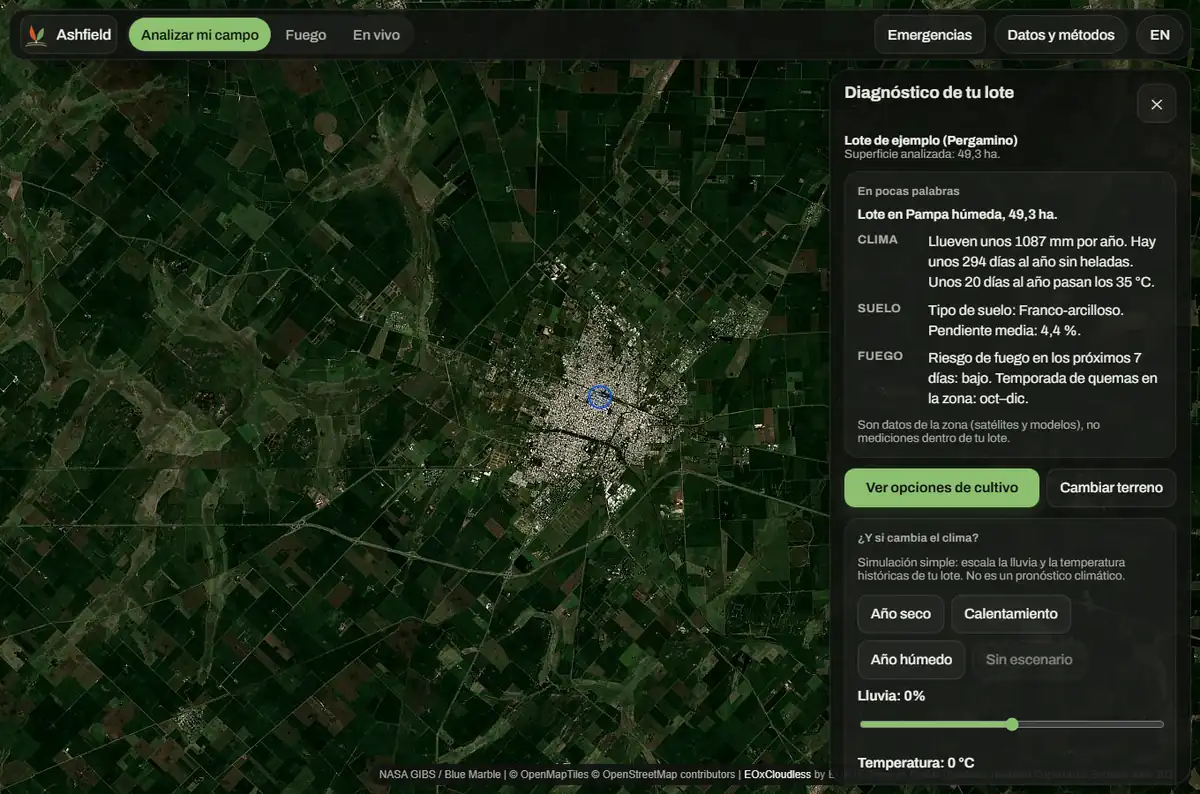
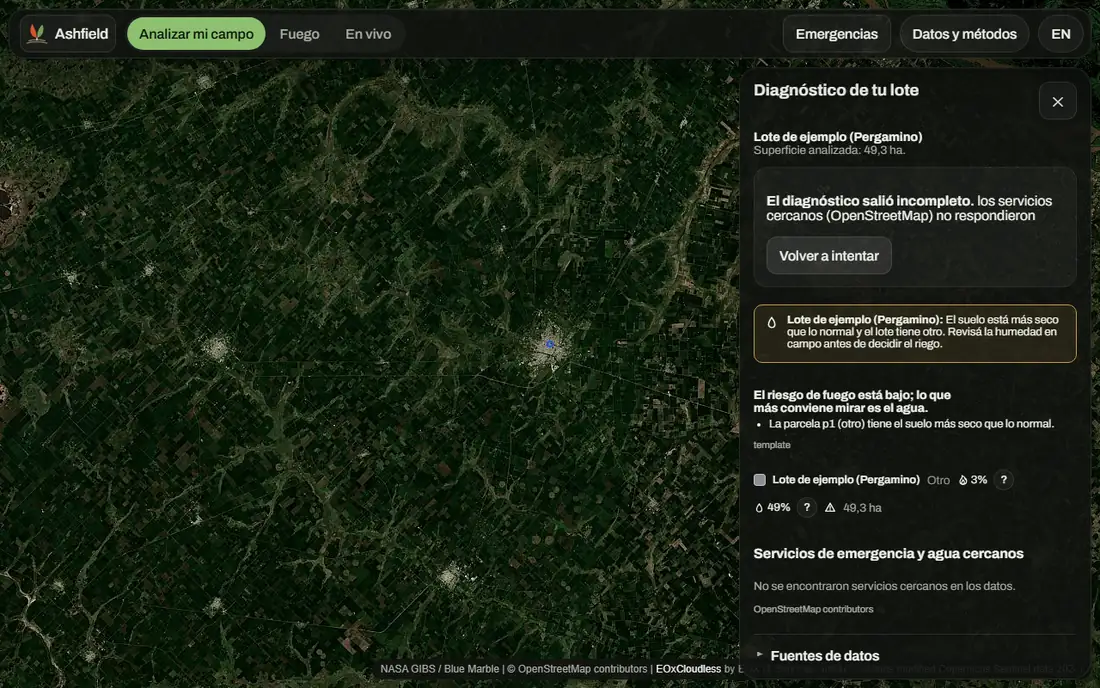
fix(landing): polish pass after impeccable round-2 critique
- locale-matched app screenshots (EN+ES, current app UI, real data)
- scoreline + #brief deep link on the collapsed requirements disclosure
- fix aria-labelledby ids on req-group headings
- card tables up to 991px (tablet dead zone), 2-col blocks grid
- hero fetchpriority, eager first block image, localized [PENDING] tag
- report: docs/audit/impeccable-round2.md (fire-view issues deferred)

diff --git a/web/src/landing/content.ts b/web/src/landing/content.ts
@@ -17,7 +17,7 @@ export interface ReqRow {
   limit?: string;
 }
 
-export interface ReqGroup { title: string; rows: ReqRow[]; }
+export interface ReqGroup { title: string; short: string; rows: ReqRow[]; }
 
 export interface MetricRow { label: string; value: string; note?: string; }
 export interface DataRow { name: string; what: string; resolution: string; where: string; }
@@ -51,7 +51,8 @@ export interface Landing {
     shot: { src: string; alt: string; width: number; height: number; caption: string };
   };
   blocks: Block[];
-  details: { summary: string; caption: string };
+  details: { summary: string; caption: string; scoreSep: string; statusSep: string };
+  pendTag: string;
   problem: { heading: string; paragraphs: string[] };
   brief: {
     heading: string;
@@ -121,9 +122,9 @@ const en: Landing = {
     tagline: "NASA Space Apps Challenge 2026 · Field Shift (also covers Harmonization of MODIS and VIIRS Hot Spots)",
     markAlt: "Ashfield mark",
     shot: {
-      src: "/landing/app_diagnosis.webp",
+      src: "/landing/app_diagnosis_en.webp",
       alt: "The Ashfield app diagnosing a 50 ha demo plot near Pergamino over satellite imagery: climate, soil and 7-day fire-risk results in plain language.",
-      width: 1200, height: 794,
+      width: 1100, height: 688,
       caption: "The app: a field diagnosis on the Pergamino demo plot, satellite base map included.",
     },
   },
@@ -132,9 +133,9 @@ const en: Landing = {
       heading: "What you see",
       text: "Fires detected right now by NASA's MODIS and VIIRS satellites, 25 years of monthly history on a 3D globe, and an estimate of fire risk for the next 7 days in your area.",
       figure: {
-        src: "/landing/app_fire_risk.webp",
+        src: "/landing/app_fire_risk_en.webp",
         alt: "The Ashfield fire view over South America: harmonized detection hexagons on the map, a 7-day fire-risk card reading 'low' and a fire calendar panel.",
-        width: 1200, height: 750,
+        width: 1280, height: 800,
         caption: "The app, fire view: harmonized detections and the 7-day risk card.",
       },
     },
@@ -152,7 +153,9 @@ const en: Landing = {
   details: {
     summary: "How it meets the challenge brief",
     caption: "Every requirement of both challenges, the method, the validation numbers and the honest limits — nothing removed.",
+    scoreSep: " · ", statusSep: " · ",
   },
+  pendTag: "[PENDING]",
   problem: {
     heading: "The problem",
     paragraphs: [
@@ -169,6 +172,7 @@ const en: Landing = {
     groups: [
       {
         title: "Field Shift: Adapting Farms with NASA Data",
+        short: "Field Shift",
         rows: [
           { id: "F1", status: "partial",
             requirement: "NASA Earth data: temperature, heat stress, precipitation, soil moisture, evaporation, frost, extremes, vegetation stress, long-term water availability",
@@ -227,6 +231,7 @@ const en: Landing = {
       },
       {
         title: "Harmonization of MODIS and VIIRS Hot Spots",
+        short: "MODIS & VIIRS Hot Spots",
         rows: [
           { id: "H1", status: "done",
             requirement: "Harmonize MODIS and VIIRS into one comparable historical series",
@@ -376,7 +381,7 @@ const es: Landing = {
     shot: {
       src: "/landing/app_diagnosis.webp",
       alt: "La app Ashfield diagnosticando un lote demo de 50 ha cerca de Pergamino sobre imagen satelital: clima, suelo y riesgo de fuego a 7 días en lenguaje simple.",
-      width: 1200, height: 794,
+      width: 1100, height: 688,
       caption: "La app: diagnóstico de un lote demo en Pergamino, con mapa satelital incluido.",
     },
   },
@@ -387,7 +392,7 @@ const es: Landing = {
       figure: {
         src: "/landing/app_fire_risk.webp",
         alt: "La vista de fuego de Ashfield sobre Sudamérica: hexágonos de detecciones armonizadas en el mapa, la tarjeta de riesgo a 7 días marcando «bajo» y el calendario de fuego.",
-        width: 1200, height: 750,
+        width: 1280, height: 844,
         caption: "La app, vista fuego: detecciones armonizadas y la tarjeta de riesgo a 7 días.",
       },
     },
@@ -405,7 +410,9 @@ const es: Landing = {
   details: {
     summary: "Cómo cumple el desafío",
     caption: "Cada requisito de los dos desafíos, el método, los números de validación y los límites honestos — nada se quitó.",
+    scoreSep: " · ", statusSep: " · ",
   },
+  pendTag: "[PENDIENTE]",
   problem: {
     heading: "El problema",
     paragraphs: [
@@ -422,6 +429,7 @@ const es: Landing = {
     groups: [
       {
         title: "Field Shift: Adapting Farms with NASA Data",
+        short: "Field Shift",
         rows: [
           { id: "F1", status: "partial",
             requirement: "Datos NASA: temperatura, estrés por calor, precipitación, humedad del suelo, evaporación, heladas, extremos, estrés de la vegetación, agua a largo plazo",
@@ -480,6 +488,7 @@ const es: Landing = {
       },
       {
         title: "Armonización de focos de calor MODIS y VIIRS",
+        short: "Focos MODIS y VIIRS",
         rows: [
           { id: "H1", status: "done",
             requirement: "Armonizar MODIS y VIIRS en una serie histórica comparable",

diff --git a/web/src/landing/main.ts b/web/src/landing/main.ts
@@ -29,7 +29,7 @@ const reqRow = (r: Landing["brief"]["groups"][number]["rows"][number]) => `
 
 const reqGroup = (g: Landing["brief"]["groups"][number]) => `
   <section class="req-group" aria-labelledby="req-${g.title.slice(0, 1)}">
-    <h3>${g.title}</h3>
+    <h3 id="req-${g.title.slice(0, 1)}">${g.title}</h3>
     <div class="table-wrap" role="region" tabindex="0" aria-label="${g.title}">
       <table class="req-table">
         <thead><tr>
@@ -92,7 +92,7 @@ const pendingList = () => `
 
 const linksList = () => `
   <ul class="links">${c.team.links.map((l) => l.pending
-    ? `<li><span class="pending-link">${l.label}</span> <span class="pend-tag">[PENDIENTE]</span></li>`
+    ? `<li><span class="pending-link">${l.label}</span> <span class="pend-tag">${c.pendTag}</span></li>`
     : `<li><a href="${l.href}">${l.label}</a></li>`).join("")}
   </ul>`;
 
@@ -105,7 +105,7 @@ const block = (b: Landing["blocks"][number]) => `
     <p>${b.text}</p>
     ${b.figure ? `<figure class="chart"><img src="${b.figure.src}"
         alt="${b.figure.alt}" width="${b.figure.width}"
-        height="${b.figure.height}" loading="lazy" decoding="async" />
+        height="${b.figure.height}" decoding="async" />
       <figcaption>${b.figure.caption}</figcaption></figure>` : ""}
     ${b.stat ? `<p class="block-stat"><strong>${b.stat.value}</strong>
       <span>${b.stat.note}</span></p>` : ""}
@@ -138,7 +138,7 @@ document.getElementById("root")!.innerHTML = `
       <figure class="hero-shot">
         <img src="${c.hero.shot.src}" alt="${c.hero.shot.alt}"
              width="${c.hero.shot.width}" height="${c.hero.shot.height}"
-             decoding="async" />
+             fetchpriority="high" decoding="async" />
         <figcaption>${c.hero.shot.caption}</figcaption>
       </figure>
     </section>
@@ -147,9 +147,16 @@ document.getElementById("root")!.innerHTML = `
       ${c.blocks.map(block).join("")}
     </section>
 
-    <details class="brief-details">
+    <details class="brief-details" id="brief">
       <summary>
         <span class="summary-title">${c.details.summary}</span>
+        <span class="summary-score">${c.brief.groups.map((g) =>
+          `${g.short}: ${(["done", "partial", "not-included"] as Status[])
+            .map((s) => [s, g.rows.filter((r) => r.status === s).length] as const)
+            .filter(([, n]) => n > 0)
+            .map(([s, n]) => `${n} ${c.brief.statusLabel[s].toLowerCase()}`)
+            .join(c.details.scoreSep)}`
+        ).join(c.details.statusSep)}</span>
         <span class="summary-caption">${c.details.caption}</span>
       </summary>
       <div class="details-body">
@@ -221,3 +228,8 @@ document.getElementById("root")!.innerHTML = `
     <p class="foot-note">${c.footer.note}</p>
   </footer>
 `;
+
+// Deep link: /#brief and /es/#brief open the requirement/proof disclosure.
+if (location.hash === "#brief") {
+  document.getElementById("brief")?.setAttribute("open", "");
+}

diff --git a/web/src/landing/landing.test.ts b/web/src/landing/landing.test.ts
@@ -69,6 +69,48 @@ describe("landing page", () => {
     expect(det!.hasAttribute("open")).toBe(false);
   });
 
+  it("the collapsed summary exposes a status scoreline before opening", async () => {
+    await render("en");
+    const score = document.querySelector("details.brief-details .summary-score");
+    expect(score?.textContent).toMatch(/Field Shift: \d+ done · \d+ partial/);
+    await render("es");
+    const scoreEs = document.querySelector("details.brief-details .summary-score");
+    expect(scoreEs?.textContent).toMatch(/hecho/i);
+  });
+
+  it("the brief details is deep-linkable via #brief", async () => {
+    await render("en");
+    const det = document.querySelector("details.brief-details");
+    expect(det?.id).toBe("brief");
+    location.hash = "#brief";
+    await render("en");
+    expect(document.querySelector("details.brief-details")?.hasAttribute("open")).toBe(true);
+    location.hash = "";
+  });
+
+  it("requirement groups label their sections with matching ids", async () => {
+    await render("en");
+    for (const sec of document.querySelectorAll(".req-group")) {
+      const id = sec.getAttribute("aria-labelledby");
+      expect(sec.querySelector(`#${id}`)).toBeTruthy();
+    }
+  });
+
+  it("hero image asks for high fetch priority", async () => {
+    await render("en");
+    const img = document.querySelector(".hero-shot img");
+    expect(img?.getAttribute("fetchpriority")).toBe("high");
+  });
+
+  it("pending markers are localized, never hardcoded Spanish", async () => {
+    await render("en");
+    const en = [...document.querySelectorAll(".pend-tag")].map((t) => t.textContent);
+    expect(en.every((t) => t === "[PENDING]")).toBe(true);
+    await render("es");
+    const es = [...document.querySelectorAll(".pend-tag")].map((t) => t.textContent);
+    expect(es.every((t) => t === "[PENDIENTE]")).toBe(true);
+  });
+
   it("hero offers exactly one primary and one example action", async () => {
     await render("es");
     const cta = document.querySelector(".hero-cta");

diff --git a/web/src/landing/landing.css b/web/src/landing/landing.css
@@ -289,14 +289,13 @@ tbody th { font-weight: 500; max-width: 22rem; }
 /* three short blocks below the hero */
 .blocks {
   display: grid;
-  grid-template-columns: repeat(3, 1fr);
+  grid-template-columns: repeat(2, 1fr);
   gap: 2.5rem;
   align-items: start;
 }
 .block h3 { margin-top: 0; }
 .block p { font-size: 0.98rem; }
 .block .chart { margin: 1rem 0 0; }
-.block figure { grid-column: 1 / -1; }
 .block-stat { display: flex; flex-direction: column; gap: 0.25rem; margin-top: 1rem; }
 .block-stat strong {
   font-family: var(--display);
@@ -329,6 +328,11 @@ tbody th { font-weight: 500; max-width: 22rem; }
   font-weight: 800; font-size: clamp(1.5rem, 3.5vw, 2.2rem);
   letter-spacing: -0.02em; line-height: 1.1;
 }
+.summary-score {
+  color: var(--accent);
+  font-size: 0.9rem; font-weight: 700;
+  font-variant-numeric: tabular-nums;
+}
 .summary-caption { color: var(--muted); font-size: 0.95rem; max-width: 60ch; }
 .details-body > section {
   padding-block: 3rem;
@@ -357,9 +361,12 @@ tbody th { font-weight: 500; max-width: 22rem; }
   .blocks { grid-template-columns: 1fr; gap: 2rem; }
   .details-body > section { padding-block: 2rem; }
   th, td { padding: 0.75rem 0.8rem; }
+}
 
-  /* requirement rows become stacked cards: title, status pill,
-   * honest limit, then what Ashfield does — no horizontal scroll */
+/* requirement rows become stacked cards below the table's 62rem
+ * minimum width: title, status pill, honest limit, then what
+ * Ashfield does — no horizontal scroll at tablet or phone width */
+@media (max-width: 991px) {
   .table-wrap { overflow-x: visible; border: 0; border-radius: 0;
     background: transparent; }
   .req-table { min-width: 0; }

diff --git a/docs/audit/impeccable-round2.md b/docs/audit/impeccable-round2.md
@@ -1,0 +1,122 @@
+# Impeccable critique — round 2 (landing + fire views)
+
+Date: 2026 (post landing-v2). Surfaces reviewed:
+
+- **A — Landing** (`/` and `/es/`, `web/src/landing/**`) — design review, isolated sub-agent.
+- **B — Fire views** (`/app/` Fuego history + En vivo, 390 px and 1280 px, real browser, `VITE_DATA_BASE_URL=https://pub-f3e35e60ad774d339f43297a54691092.r2.dev/v1/`, backend `http://localhost:8000`) — design + detector evidence, isolated sub-agent.
+
+Two isolated sub-agents were used (not degraded). Assessment A completed before detector findings entered the synthesis.
+
+## Evidence
+
+Screenshots (git-ignored) under `web/screenshots/critique/`:
+
+| Surface | 1280 px | 390 px |
+|---|---|---|
+| Landing EN | `landing-en-1280-first.png`, `landing-en-1280-full.png` | `landing-en-390-first.png`, `landing-en-390-full.png` |
+| Landing ES | `landing-es-1280-first.png`, `landing-es-1280-full.png` | `landing-es-390-first.png`, `landing-es-390-full.png` |
+| App — Fuego history | `app-fire-1280.png`, `app-fire-panel-1280.png` | `app-fire-390.png`, `app-fire-panel-390.png` |
+| App — En vivo | `app-live-1280.png` | `app-live-390.png` |
+| App — welcome | `app-welcome-1280.png` | `app-welcome-390.png` |
+| App — EN UI (for landing assets) | `en-fire.png`, `en-diagnosis.png` | — |
+| Landing post-fix (this branch) | `final-en-1280-first.png`, `final-en-1280-full.png`, `final-en-1280-brief-open.png`, `final-en-800-full.png`, `final-en-800-blocks.png`, `final-en-800-reqcards.png`, `final-es-1280-first.png`, `final-es-1280-full.png`, `final-es-1280-brief-es.png`, `final-{en,es}-390-{first,full}.png`, `final-es-800-full.png` | — |
+
+Detector (`impeccable detect --json`):
+
+- `web/src/landing/**`, `web/index.html`, `web/es/index.html` → `[]` (clean, before and after fixes).
+- `web/src/styles/app.css` → 2 findings (see B-6 below).
+
+---
+
+## A — Landing
+
+**Heuristic score: 35/40 (87.5%)** — strong. Real product imagery, honest status labels, editorial ember/paper palette, no generic SaaS treatment.
+
+### What is working
+
+- One-sentence promise hero + two CTAs; the jury sees product, not boilerplate.
+- `Done / Partial / Not included` status pills with honest `limit` column — rare and credible.
+- Named NASA data only; `R² 0.979` holdout figure; Orin field note disclosed.
+- Bilingual content is structurally mirrored in typed `content.ts`.
+- No horizontal scroll at 390 px; dark mode and reduced-motion respected.
+
+### Issues (P1 first) — all fixed in this branch
+
+| # | Sev | Finding | Evidence | Fix |
+|---|---|---|---|---|
+| A1 | P1 | **English page showed a Spanish-UI app screenshot.** Both locales pointed to `/landing/app_diagnosis.webp` and `/landing/app_fire_risk.webp` (Spanish UI) — undermines EN credibility for the jury. The ES assets also showed the pre-parcels app UI (stale after other terminals merged app work). | `web/src/landing/content.ts` (hero `shot.src`, block figure `src`) | Recaptured all four assets in a real browser against live backend/R2 on the current app UI: `app_diagnosis_en.webp` (EN, 100 KB), `app_diagnosis.webp` (ES refreshed, 98 KB), `app_fire_risk_en.webp` (EN, 69 KB), `app_fire_risk.webp` (ES refreshed, 65 KB). Both diagnosis shots show the app's honest "incomplete" banner — the OSM nearby-services upstream was down on the backend at capture time (retried 3×, both locales; consistent real behavior, and it doubles as evidence for B5's untranslated backend strings). |
+| A2 | P1 | **All proof hidden behind collapsed `<details>`** — requirements table, `R² 0.979`, limits. A hurried evaluator saw zero evidence before deciding to open it. | `web/src/landing/main.ts` `<details class="brief-details">` | Added a per-status scoreline inside `<summary>` computed from the content data — "Field Shift: 7 done · 6 partial · MODIS & VIIRS Hot Spots: 7 done" (localized; zero-count statuses omitted) — plus `id="brief"` + `#brief` auto-open so the proof is deep-linkable. |
+| A3 | P1/P2 | **`[PENDIENTE]` (Spanish) rendered on the English page** for the pending dataset link. | `main.ts` `linksList()` hardcoded tag | Localized via `content.ts` `pendTag` (`[PENDING]` / `[PENDIENTE]`). |
+| A4 | P2 | **Broken `aria-labelledby`**: `reqGroup` emitted `aria-labelledby="req-F"` / `req-H` but the `<h3>` had no matching `id`. | `main.ts` `reqGroup` | `<h3>` now carries `id="req-{F,H}"`. |
+| A5 | P2 | **721–991 px dead zone**: `req-table` `min-width: 62rem` (≈992 px) but card layout only engaged ≤720 px → horizontal scroll on tablets. | `landing.css` `.req-table`, `@media (max-width: 720px)` | Card layout moved to `@media (max-width: 991px)`; phone-only rules kept at 720 px. |
+| A6 | P2 | **Empty third grid column**: `.blocks` was 3-col; the chart block spanned `1/-1`, leaving the other two blocks in columns 1–2 with column 3 empty. | `landing.css` `.blocks`, `.blocks .block:has(.chart)` | Grid is now 2-col; the figure block spans both columns. |
+| A7 | P2/minor | **Lazy-loaded first block image** rendered as a large empty bordered panel before scroll/load. | `main.ts` `block()` `loading="lazy"` | Eager loading for the in-blocks figure (lazy kept for deep-in-details figures). |
+| A8 | minor | Hero image (LCP) lacked `fetchpriority`. | `main.ts` hero `<img>` | `fetchpriority="high"` added. |
+| A9 | minor | `details` had no anchor — the brief section was not linkable. | `main.ts` | `id="brief"` + hash auto-open (see A2). |
+
+### Persona red flags (landing)
+
+- **Hurried jury evaluator**: sees status + evidence count now in the closed summary; can deep-link `#brief`; no longer sees a Spanish UI on the English page.
+- **Argentine producer on 390 px**: `1 + 3` stat still requires its note to parse; acceptable.
+- **Skeptical technologist**: proof reachable in one tap, and the scoreline signals honesty upfront.
+
+### Minor observations (not changed — factual/tonal, need product decision)
+
+- "1 + 3" stat is cryptic without its note (kept; the note is adjacent).
+- Orin date wording may confuse a jury member (copy unchanged — factual claim).
+- `R² 0.979` has no inline source link in the hero block (it is sourced inside the details section).
+
+---
+
+## B — Fire views (app) — documented only, NOT fixed here
+
+App files are owned by other terminals (`App.tsx`, `app.css`, `glass.css`, field/parcels). These findings are for later.
+
+**Heuristic impression**: authored, not generic — but the app's green accent conflicts with the brand's ember-for-fire / green-for-field distinction, and several state/i18n gaps hurt trust.
+
+### Priority issues
+
+| # | Sev | Finding | Evidence | Suggested fix |
+|---|---|---|---|---|
+| B1 | P0/P1 | **Risk-fetch failure or missing shard renders as "Sin datos en esta región"** — indistinguishable from "no risk". | `web/src/features/fire/AreaPanel.tsx` ~88–119, 179–199; `app-fire-panel-1280.png` | Split loading / error / empty into three states; add retry on error. |
+| B2 | P1 | **Crosshair/reticle offset from the queried point.** | `web/src/App.tsx` 112–113, 553; `web/src/styles/app.css` 91; `app-fire-1280.png` | Align reticle to map center or remove it; use existing outline capability if present. |
+| B3 | P1 | **Mobile bottom sheet covers playback controls** ≤720 px. | `web/src/styles/app.css` 115–117, 186–189; `web/src/styles/glass.css` 165–169; `app-fire-panel-390.png` | Anchor controls above the sheet or open the sheet collapsed. |
+| B4 | P2 | **Live "fire near you" measures from an invisible map-center reference.** | `web/src/features/live/LiveMode.tsx` 160–170; `web/src/i18n/es.json` 465 | Show the reference marker/reticle in live mode or name the reference point. |
+| B5 | P2 | **English UI leaks Spanish strings** — month labels, calendar day initials, units, and backend "why" text ("sin señales de riesgo destacables" visible in `en-fire.png`). | `AreaPanel.tsx` 25, 144; `Calendar.tsx` 7–8; `HistoricControls.tsx` 20–24; `ui.tsx` 47 | Route through `t()` / `Intl.DateTimeFormat`; translate or mark backend strings. |
+| B6 | P3 | **Side-tab accent borders** flagged by the detector. | `web/src/styles/app.css` 555, 580 (`border-left: 4px solid #b3401e`) | Replace with in-flow accent or remove. |
+
+### Additional observations (P2/P3, for later)
+
+- Six-option "Capas" select leaks field metrics into the Fire view.
+- Live layer has no legend; "Anomalías" is unexplained.
+- "High" and "extreme" share the same red — can't distinguish.
+- Risk percentage shows false precision (e.g. "3 %"); consider a band.
+- Month slider has no year markers and can trigger many fetches.
+- Raw coordinates are used as the place name in the panel.
+- Fire panel close lacks a clear reopen affordance.
+- No place search inside fire/live modes.
+- Brand: fire views use green accent — contradicts ember=fire / green=field.
+
+### Evidence limitation
+
+A dedicated `web/screenshots/critique/` directory did not exist at capture time; shots live there now. `en-fire.png` and `en-diagnosis.png` were captured with the app toggled to English (real backend, R2 data) to fix landing asset A1 — they double as evidence for B5.
+
+---
+
+## Fixes applied this branch (landing only)
+
+`web/src/landing/content.ts`, `web/src/landing/main.ts`, `web/src/landing/landing.css`, `web/src/landing/landing.test.ts`, plus `web/public/landing/{app_diagnosis,app_diagnosis_en,app_fire_risk,app_fire_risk_en}.webp`. No app-owned files touched; `git status` verified before commit.
+
+## Verification
+
+- `npx vitest run src/landing` — **21 passed** (5 new tests: scoreline, `#brief` deep link + auto-open, `aria-labelledby` id match, hero `fetchpriority`, localized pending tag).
+- `npm run build` — clean.
+- `impeccable detect --json src/landing index.html es/index.html` — `[]`.
+- Post-fix screenshots in `web/screenshots/critique/final-*`: no horizontal scroll at 390/800/1280 (`scrollW` equals viewport on every shot), card tables verified at 800 px (`final-en-800-reqcards.png`), 2-col blocks with no empty column (`final-en-800-blocks.png`), `#brief` auto-open (`final-en-1280-brief-open.png`), EN-UI assets on the English page (`final-en-1280-first.png`), localized `[PENDING]` footer tag.
+- Note: at capture time the backend's OpenStreetMap nearby-services upstream was unreachable, so both hero screenshots show the app's "diagnosis came back incomplete" banner — real, honest behavior (retry worked in-session for content; the banner persisted because the upstream stayed down). Not a landing defect.
+
+## Questions to consider (product, not code)
+
+- Should the hero stat link its `R² 0.979` to the validation doc/repo path?
+- Orin dates: is the pre-hackathon collection date clear enough for a jury in the first read?
+- Video CTA is hidden until a URL exists — confirm intended (currently `[PENDIENTE]`).
